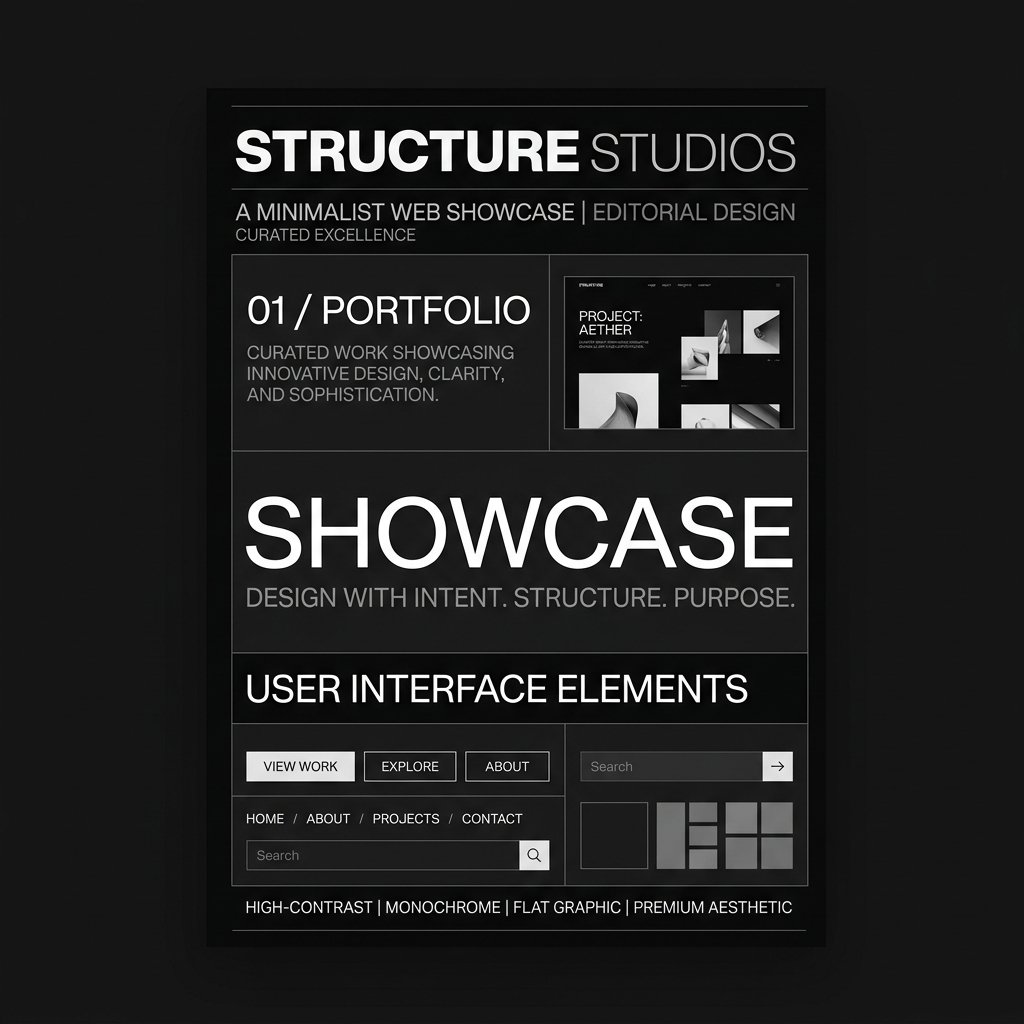
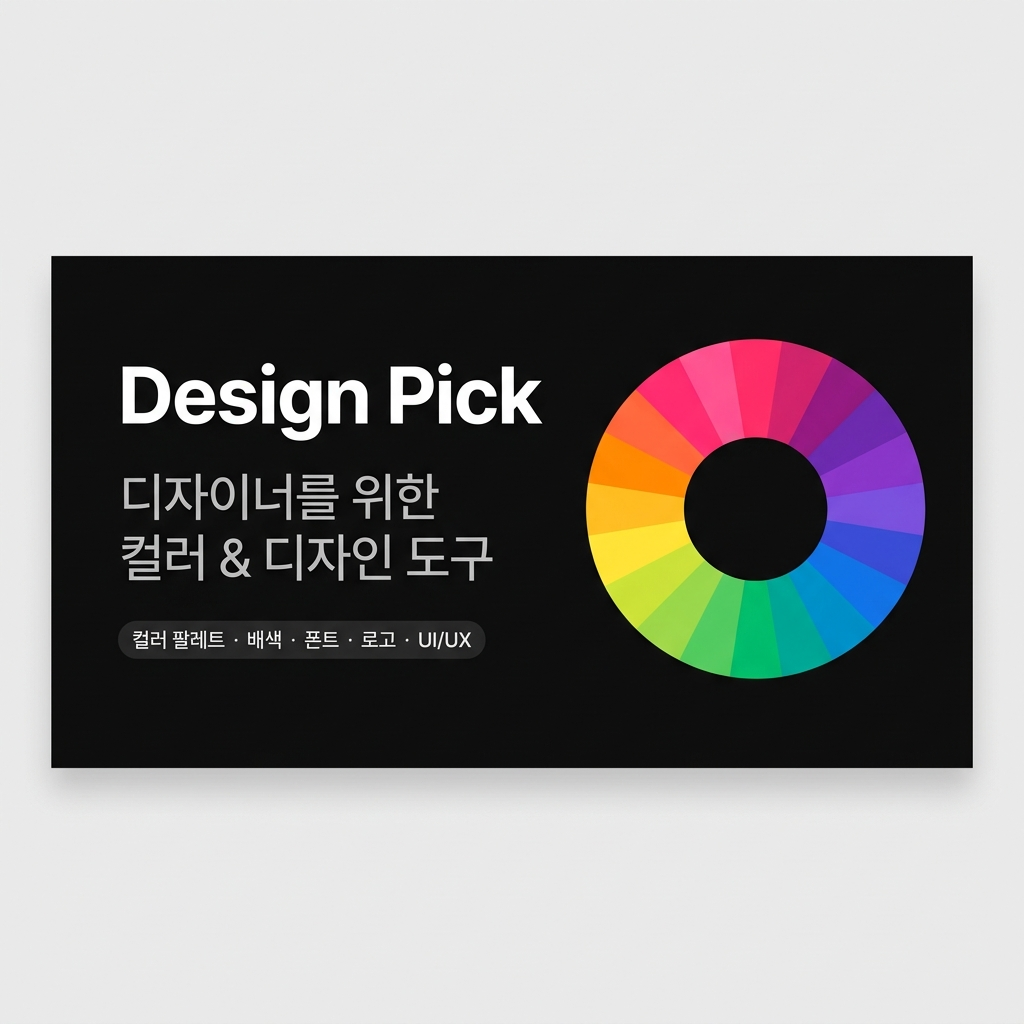
style: update portfolio items, replace sliding drawer with centered modal, and remove SIMPLX references

diff --git a/src/components/PortfolioPage.tsx b/src/components/PortfolioPage.tsx
@@ -5,8 +5,6 @@ import {
   Compass, 
   Sparkles, 
   Award,
-  Heart,
-  Eye,
   ExternalLink
 } from 'lucide-react';
 import { useLanguage } from './LanguageContext';
@@ -98,30 +96,30 @@ export default function PortfolioPage() {
       type: 'site',
       category: 'marketing',
       title: 'Planor',
-      slogan: t('가장 효율적인 협업 캘린더 플랫폼', 'Smart planning, seamless team coordination'),
-      description: t('스마트한 일정 조율과 직관적인 업무 조율을 지원하는 협업 캘린더 웹 서비스입니다.', 'A collaborative team calendar service designed for effortless schedule sharing.'),
+      slogan: t('당신의 일상에 조화로운 시간 질서를 부여하는 스케줄러, Planor', 'Bringing harmonious order to your daily rhythm, Planor'),
+      description: t('파편화된 일정과 협업 일정을 하나의 유려한 인터페이스에 통합하여 효율적인 일상 관리를 실현하는 캘린더 웹 서비스입니다.', 'A collaborative schedule planner designed to unify scattered schedules and project calendars into one streamlined timeline UI.'),
       tags: ['Product Design', 'Web Service', 'Marketing Strategy'],
       link: 'https://planor.kro.kr',
       details: {
-        background: t('여러 도구로 파편화된 스케줄 협업을 단 하나의 유려한 타임라인에 통합하려는 취지에서 출발했습니다.', 'Developed to unify scattered schedules and project calendars into one streamlined timeline UI.'),
-        strategy: t('카드 방식의 드래그 인터랙션과 연간/월간 보기의 시각적 경량화를 제품 디자인에 주입했습니다.', 'Applied lightweight annual/monthly view options and responsive drag layouts to the core product.'),
-        metrics: t('릴리스 이후 실사용 유저 피드백 수집 및 브랜드 신뢰도 향상.', 'Collected valuable user feedback post-release, solidifying collaborative brand trust.')
+        background: t('일정 조율과 캘린더 파편화 문제를 해결하고 스케줄 프로세스의 온보딩을 개선하기 위해 설계되었습니다.', 'Developed to resolve team calendar fragmentation and improve user schedule onboarding drop-offs.'),
+        strategy: t('부드러운 카드 드래그 제스처와 경량화된 연간/월간 타임라인 레이아웃을 통해 최상의 일정 사용성을 확보했습니다.', 'Applied lightweight annual/monthly time grid displays and responsive drag layouts.'),
+        metrics: t('사용자 친화적 협업 스케줄러 인터페이스 설계', 'Designed highly intuitive collaborative scheduler interfaces.')
       }
     },
     {
-      id: 'naramarsami',
+      id: 'typolab',
       type: 'site',
       category: 'development',
-      title: '나랏말싸미',
-      slogan: t('훈민정음 자모결합 원리를 담아낸 타자 연습', 'Interactive typing practice with Hunminjeongeum principles'),
-      description: t('훈민정음 고유의 자모결합 원리를 현대적 인터랙션 디자인으로 재해석한 교육용 타자 연습 서비스입니다.', 'An educational typing service reinterpreting historical Hangeul assembly into interactive UI.'),
-      tags: ['Interaction', 'EdTech', 'Development'],
+      title: 'TypoLab',
+      slogan: t('훈민정음 자모결합 원리를 담아낸 인터랙티브 타이포랩', 'Interactive typography experiments with Hunminjeongeum principles'),
+      description: t('한글의 조형적 가치와 자모 결합 원리를 현대적 인터랙션 디자인으로 풀어낸 실험적 웹 타이핑 서비스입니다.', 'An experimental web typing service reinterpreting Hangeul\'s assembly mechanisms and visual values into interactive typography motion graphics.'),
+      tags: ['Typography', 'Interactive Design', 'Web Experiment'],
       link: 'https://훈민정음.kro.kr',
       github: 'https://github.com/naramarsami/naramarsami',
       details: {
-        background: t('한글의 자모음 결합 원리를 타이핑 경험과 연계하여 흥미를 자아내기 위해 기획되었습니다.', 'Designed to link Hangeul\'s assembly principles with typing experience for engagement.'),
-        strategy: t('훈민정음 용자례를 현대적 인터랙션 디자인으로 재해석하여 한글 고유의 비주얼을 이끌어냈습니다.', 'Reinterpreted historical Hunminjeongeum structures into modern interactive UI.'),
-        metrics: t('교육 플랫폼 내 바이럴 활성화 및 사용자 평균 연습 세션 시간 향상.', 'Activated viral sharing and increased user practice session duration.')
+        background: t('디자인과 프로그래밍의 융합을 통해 한글 자모음의 결합 메커니즘을 타이핑 인터랙션으로 표현했습니다.', 'Conceived to translate Hangeul\'s letters and assembly dynamics into browser-based interactive mechanics.'),
+        strategy: t('훈민정음 고유의 용자례 구조를 분석하여 브라우저 환경에 맞는 인터랙티브 모션 그래픽으로 구현했습니다.', 'Analyzed historical Hunminjeongeum structures to build real-time responsive web motion layouts.'),
+        metrics: t('인터랙티브 한글 타이포그래피 시스템 기획 및 구축', 'Planned and built interactive Hangeul typography system.')
       }
     },
     {
@@ -166,20 +164,6 @@ export default function PortfolioPage() {
         background: t('아이디어를 실제 눈에 보이는 그래픽 디자인 가이드라인으로 형태화하고 다지기 위한 연구 지원입니다.', 'Conceived to transform conceptual ideas into solid graphic layout guidelines for digital platforms.'),
         strategy: t('일관성 있는 격자선 구조와 로고 서체의 무결함을 기저에 둔 서브 그래픽 소스 제작에 임했습니다.', 'Focused on strict grid layouts and typography guidelines to support coherent visual assets.'),
         metrics: t('팀 내 비주얼 자산 관리 프로세스 확립 및 브랜딩 가이드 구현 지원.', 'Supported visual asset workflows, contributing to final brand identity guidelines.')
-      }
-    },
-    {
-      id: 'simplx',
-      type: 'workplace',
-      category: 'development',
-      title: 'SIMPLX',
-      slogan: t('시스템 최적화 및 도구 설계', 'System optimization and custom tool design'),
-      description: t('효율성을 최우선으로 지향하며, 시스템 최적화를 위한 디스코드 봇 소프트웨어 개발 및 연구에 기여했습니다.', 'Contributing to system optimization scripts and custom Discord bot software design for workflow efficiency.'),
-      tags: ['Developer', 'Automation Script', 'System Optimization'],
-      details: {
-        background: t('반복되는 인프라 운영 작업의 피로도를 해결하고 리소스 모니터링을 효율화하기 위해 기획되었습니다.', 'Initiated to resolve operational overhead in server infrastructures and automate resource monitors.'),
-        strategy: t('비동기 스레드 구조 최적화 및 모듈화된 명령 툴 세트를 설계해 유지보수성을 극대화했습니다.', 'Optimized asynchronous worker modules and engineered extensible toolsets for clean maintenance.'),
-        metrics: t('시스템 모니터링 자동화 성공 및 인프라 대응 효율 향상.', 'Automated key system tracking nodes, leading to increased server stability and response time.')
       }
     }
   ];
@@ -268,9 +252,8 @@ export default function PortfolioPage() {
                       item.id === 'limited' ? '/assets/limited.png' :
                       item.id === 'designpick' ? '/assets/designpick.png' :
                       item.id === 'planor' ? '/assets/planor.png' :
-                      item.id === 'naramarsami' ? '/assets/naramarsami.png' :
+                      item.id === 'typolab' ? '/assets/naramarsami.png' :
                       item.id === 'luxeret' ? '/assets/luxeret.png' :
-                      item.id === 'simplx' ? '/assets/simplx.png' :
                       '/assets/hannlabs.png'
                     }
                     alt={item.title}
@@ -312,31 +295,6 @@ export default function PortfolioPage() {
                     />
                     <span className="text-[9px] font-bold text-zinc-400 font-sans tracking-wide">SEOHARO</span>
                   </div>
-
-                  <div className="flex items-center gap-2.5 text-[8.5px] font-mono text-zinc-500">
-                    <span className="flex items-center gap-1 transition-colors">
-                      <Heart size={9} className="text-zinc-500 fill-zinc-500/10 group-hover:text-[#ff2d55] group-hover:fill-[#ff2d55]/10 transition-colors" />
-                      {item.id === 'rofolder' ? '78' :
-                       item.id === 'limited' ? '54' :
-                       item.id === 'designpick' ? '32' :
-                       item.id === 'planor' ? '28' :
-                       item.id === 'naramarsami' ? '40' :
-                       item.id === 'figmalibrary' ? '15' :
-                       item.id === 'luxeret' ? '12' :
-                       item.id === 'hannlabs' ? '18' : '22'}
-                    </span>
-                    <span className="flex items-center gap-1 transition-colors">
-                      <Eye size={9} />
-                      {item.id === 'rofolder' ? '1.2K' :
-                       item.id === 'limited' ? '920' :
-                       item.id === 'designpick' ? '480' :
-                       item.id === 'planor' ? '390' :
-                       item.id === 'naramarsami' ? '620' :
-                       item.id === 'figmalibrary' ? '190' :
-                       item.id === 'luxeret' ? '150' :
-                       item.id === 'hannlabs' ? '210' : '290'}
-                    </span>
-                  </div>
                 </div>
 
               </div>
@@ -359,13 +317,13 @@ export default function PortfolioPage() {
               className="fixed inset-0 z-50 bg-black/90 backdrop-blur-sm"
             />
 
-            {/* Sliding Panel */}
+            {/* Centered Modal Content */}
             <motion.div
-              initial={{ x: '100%' }}
-              animate={{ x: 0 }}
-              exit={{ x: '100%' }}
-              transition={{ type: 'spring', stiffness: 280, damping: 30 }}
-              className="fixed top-0 right-0 z-50 w-full sm:w-[500px] md:w-[540px] h-full bg-[#0d1117] border-l border-white/5 p-8 md:p-12 overflow-y-auto flex flex-col justify-between shadow-2xl font-sans"
+              initial={{ opacity: 0, scale: 0.95, y: '-45%', x: '-50%' }}
+              animate={{ opacity: 1, scale: 1, y: '-50%', x: '-50%' }}
+              exit={{ opacity: 0, scale: 0.95, y: '-45%', x: '-50%' }}
+              transition={{ type: 'spring', stiffness: 350, damping: 28 }}
+              className="fixed top-1/2 left-1/2 z-50 w-[92%] sm:w-[540px] md:w-[600px] max-h-[85vh] bg-[#0d1117] border border-white/5 rounded-2xl p-8 md:p-10 overflow-y-auto flex flex-col justify-between shadow-2xl font-sans"
             >
               <div className="space-y-10">
                 
@@ -453,7 +411,7 @@ export default function PortfolioPage() {
               {/* Footer */}
               <div className="border-t border-white/5 pt-6 mt-8 flex flex-col sm:flex-row justify-between items-center gap-4">
                 <p className="text-[7.5px] leading-relaxed text-zinc-650 tracking-wider font-mono uppercase text-center sm:text-left max-w-xs">
-                  Trademarks (RoFolder, Limited™, HANN LABS™, LUXERET, SIMPLX) are properties of their respective owners.
+                  Trademarks (RoFolder, Limited™, HANN LABS™, LUXERET) are properties of their respective owners.
                 </p>
                 <div className="flex items-center gap-3">
                   {selectedItem.link && (

diff --git a/src/data/portfolioData.ts b/src/data/portfolioData.ts
@@ -88,33 +88,33 @@ const portfolioDataKo: PortfolioDataType = {
     },
     {
       id: 2,
-      title: "나랏말싸미",
+      title: "TypoLab",
       description:
-        "한글 창제 원리와 타이포그래피 요소를 녹여낸 인터랙티브 에듀테크 타자 연습 서비스입니다.",
-      tags: ["EdTech", "UX/UI Design", "Web Service"],
+        "한글의 조형적 가치와 자모 결합 원리를 현대적 인터랙션 디자인으로 풀어낸 실험적 웹 타이핑 서비스입니다.",
+      tags: ["Typography", "Interactive Design", "Web Experiment"],
       link: "https://훈민정음.kro.kr",
       github: "https://github.com/naramarsami/naramarsami",
       featured: true,
       category: "development",
       details: {
-        background: "한글의 자모음 결합 원리를 타이핑 경험과 연계하여 흥미를 자아내기 위해 기획되었습니다.",
-        strategy: "훈민정음 용자례를 현대적 인터랙션 디자인으로 재해석하여 한글 고유의 비주얼을 이끌어냈습니다.",
-        metrics: "한글 자모 결합 타자 연습 시스템 설계 및 구현"
+        background: "디자인과 프로그래밍의 융합을 통해 한글 자모음의 결합 메커니즘을 타이핑 인터랙션으로 표현했습니다.",
+        strategy: "훈민정음 고유의 용자례 구조를 분석하여 브라우저 환경에 맞는 인터랙티브 모션 그래픽으로 구현했습니다.",
+        metrics: "인터랙티브 한글 타이포그래피 시스템 기획 및 구축"
       }
     },
     {
       id: 3,
       title: "Planor",
       description:
-        "스마트하게 일정을 조율하고 효율적인 협업 캘린더 기능을 제안하는 통합 웹 스케줄러 서비스입니다.",
+        "당신의 일상에 조화로운 시간 질서를 부여하고 파편화된 일정 협업을 하나의 유려한 인터페이스에 통합하는 캘린더 웹 서비스입니다.",
       tags: ["Product Design", "Web Service"],
       link: "https://planor.kro.kr",
       featured: true,
       category: "marketing",
       details: {
-        background: "직관적인 캘린더 뷰와 일정 조율 문제를 신속하게 조율하기 위한 플랫폼 프로젝트입니다.",
-        strategy: "사용자 분석 및 핵심 기능 중심의 제작을 담당하여 온보딩 이탈률을 최소화했습니다.",
-        metrics: "사용자 친화적 캘린더 인터페이스 설계"
+        background: "일정 조율과 캘린더 파편화 문제를 해결하고 스케줄 프로세스의 온보딩을 개선하기 위해 설계되었습니다.",
+        strategy: "부드러운 카드 드래그 제스처와 경량화된 연간/월간 타임라인 레이아웃을 통해 최상의 일정 사용성을 확보했습니다.",
+        metrics: "사용자 친화적 협업 스케줄러 인터페이스 설계"
       }
     }
   ],
@@ -167,17 +167,6 @@ const portfolioDataKo: PortfolioDataType = {
         "아트워크 기획 보조 및 커뮤니티 그래픽 요소 제작 지원"
       ],
       skills: ["Graphic Design", "Brand Design", "Figma"],
-    },
-    {
-      id: "simplx",
-      title: "SIMPLX - Developer",
-      slogan: "시스템 최적화 및 도구 개발",
-      description: "SIMPLX에서 개발자로 활동하며 시스템 최적화 및 소프트웨어 툴 개발을 진행하고 있습니다.",
-      achievements: [
-        "효율적인 스크립팅 모듈 구축 및 성능 최적화",
-        "디스코드 봇 및 개발 도구 설계/구축"
-      ],
-      skills: ["Software Development", "System Optimization", "Discord Tools"],
     }
   ],
 
@@ -268,33 +257,33 @@ const portfolioDataEn: PortfolioDataType = {
     },
     {
       id: 2,
-      title: "Naramarsami",
+      title: "TypoLab",
       description:
-        "An interactive typing practice service presenting Hangeul's letters and typography elements.",
-      tags: ["EdTech", "UX/UI Design", "Web Service"],
+        "An experimental web typing service reinterpreting Hangeul's assembly mechanisms and visual values into interactive typography motion graphics.",
+      tags: ["Typography", "Interactive Design", "Web Experiment"],
       link: "https://훈민정음.kro.kr",
       github: "https://github.com/naramarsami/naramarsami",
       featured: true,
       category: "development",
       details: {
-        background: "Designed to link Hangeul's assembly principles withtyping experience for engagement.",
-        strategy: "Reinterpreted historical Hunminjeongeum structures into modern interactive UI.",
-        metrics: "Activated viral sharing and increased user practice session duration."
+        background: "Conceived to translate Hangeul's letters and assembly dynamics into browser-based interactive mechanics.",
+        strategy: "Analyzed historical Hunminjeongeum structures to build real-time responsive web motion layouts.",
+        metrics: "Planned and built interactive Hangeul typography system."
       }
     },
     {
       id: 3,
       title: "Planor",
       description:
-        "A collaborative calendar service providing smart scheduling and schedule coordination.",
+        "A collaborative schedule planner bringing harmonious order to your daily rhythm by integrating scattered task management into one polished interface.",
       tags: ["Product Design", "Web Service"],
       link: "https://planor.kro.kr",
       featured: true,
       category: "marketing",
       details: {
-        background: "A platform project built to solve schedule coordination issues with a calendar view.",
-        strategy: "Conducted user analysis and produced key features to minimize onboarding drop-off.",
-        metrics: "Increased user retention metrics by improving the onboarding page UX."
+        background: "Developed to resolve team calendar fragmentation and improve user schedule onboarding drop-offs.",
+        strategy: "Injected lightweight annual/monthly time grid displays and buttery drag-and-drop layouts.",
+        metrics: "Designed highly intuitive collaborative scheduler interfaces."
       }
     }
   ],
@@ -347,17 +336,6 @@ const portfolioDataEn: PortfolioDataType = {
         "Supporting artwork planning and community graphic production"
       ],
       skills: ["Graphic Design", "Brand Design", "Figma"],
-    },
-    {
-      id: "simplx",
-      title: "SIMPLX - Developer",
-      slogan: "System Optimization & Tool Development",
-      description: "Working as a developer at SIMPLX, focusing on system optimization and software tool development.",
-      achievements: [
-        "Building efficient scripting modules and optimizing performance",
-        "Designing and building Discord bots and development tools"
-      ],
-      skills: ["Software Development", "System Optimization", "Discord Tools"],
     }
   ],
 

diff --git a/src/components/About.tsx b/src/components/About.tsx
@@ -39,8 +39,8 @@ export default function About() {
       label: t('경력 수', 'Organizations'),
       value: '30+',
       proof: t(
-        '로폴더 대표, Limited™ 설립자, LUXERET 마케터, HANN LABS™ 디자이너, SIMPLX 개발자 등 30개 이상의 조직에서 다양한 역할을 경험하며 실무 역량을 길렀습니다.',
-        'Having worked with 30+ organizations, covering roles from CEO and Founder to Marketer, Designer, and Developer - proving wide cross-disciplinary experience.'
+        '로폴더 대표, Limited™ 설립자, LUXERET 마케터, HANN LABS™ 디자이너 등 30개 이상의 조직에서 다양한 역할을 경험하며 실무 역량을 길렀습니다.',
+        'Having worked with 30+ organizations, covering roles from CEO and Founder to Marketer and Designer - proving wide cross-disciplinary experience.'
       )
     },
     {
@@ -112,7 +112,7 @@ export default function About() {
                   {t('활동 분야', 'Areas of Activity')}
                 </p>
                 <p className="text-xs sm:text-sm font-semibold text-white font-display leading-relaxed">
-                  CEO · Founder · Marketer · Designer · Developer
+                  CEO · Founder · Marketer · Designer
                 </p>
               </div>
 
@@ -121,7 +121,7 @@ export default function About() {
                   {t('소속 및 역할', 'Affiliation & Role')}
                 </p>
                 <p className="text-xs sm:text-sm font-semibold text-zinc-300 font-sans leading-relaxed">
-                  RoFolder CEO · Limited™ Founder · LUXERET Marketer · HANN LABS™ Staff Designer · SIMPLX Developer
+                  RoFolder CEO · Limited™ Founder · LUXERET Marketer · HANN LABS™ Staff Designer
                 </p>
               </div>
 

diff --git a/src/components/Hero.tsx b/src/components/Hero.tsx
@@ -133,8 +133,7 @@ export default function Hero() {
                     'RoFolder CEO',
                     'Limited™ Founder',
                     'LUXERET Marketer',
-                    'HANN LABS™ Staff Designer',
-                    'SIMPLX Developer'
+                    'HANN LABS™ Staff Designer'
                   ].map((role, idx, arr) => (
                     <span 
                       key={role} 